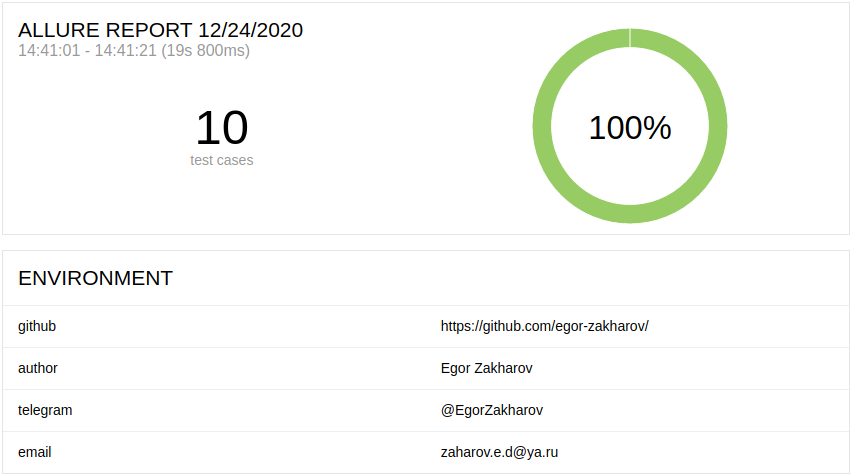
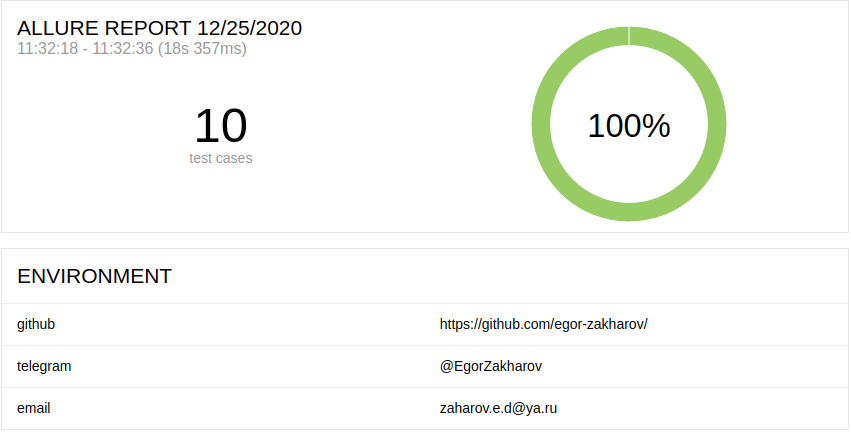
added config reader

diff --git a/src/test/java/io/swagger/petstore/testing/BaseTest.java b/src/test/java/io/swagger/petstore/testing/BaseTest.java
@@ -1,15 +1,14 @@
 package io.swagger.petstore.testing;
 
+import com.typesafe.config.Config;
+import com.typesafe.config.ConfigFactory;
 import io.restassured.RestAssured;
 import io.restassured.parsing.Parser;
 import org.junit.jupiter.api.AfterAll;
 import org.junit.jupiter.api.BeforeAll;
 
-import java.io.File;
-import java.io.FileInputStream;
 import java.io.FileOutputStream;
 import java.io.IOException;
-import java.io.InputStream;
 import java.io.OutputStream;
 import java.util.Properties;
 
@@ -17,32 +16,22 @@ public class BaseTest {
 
     @BeforeAll
     public static void setUp() {
-        try (InputStream input = new FileInputStream("./src/main/resources/settings.properties")) {
-            Properties settingsProp = new Properties();
-            settingsProp.load(input);
-            RestAssured.baseURI = (settingsProp.getProperty("base.uri"));
-            RestAssured.basePath = (settingsProp.getProperty("base.path"));
-            RestAssured.defaultParser = Parser.JSON;
-        } catch (IOException e) {
-            e.printStackTrace();
-        }
+        Config config = ConfigFactory.load();
+        RestAssured.baseURI = config.getString("base.uri");
+        RestAssured.basePath = config.getString("base.path");
+        RestAssured.defaultParser = Parser.JSON;
     }
 
     @AfterAll
     public static void tearDown() {
         Properties envProp = new Properties();
-        envProp.setProperty("author", "Egor Zakharov");
         envProp.setProperty("github", "https://github.com/egor-zakharov/");
         envProp.setProperty("email", "zaharov.e.d@ya.ru");
         envProp.setProperty("telegram", "@EgorZakharov");
-        File resultsFolder = new File("./build/allure-results");
-        if (!resultsFolder.exists()) {
-            resultsFolder.mkdirs();
-        }
         try (OutputStream out = new FileOutputStream("./build/allure-results/environment.properties")) {
             envProp.store(out, "environment.properties");
-        } catch (IOException ex) {
-            System.out.println(ex.getMessage());
+        } catch (IOException e) {
+            System.out.println(e.getMessage());
         }
     }
 }

diff --git a/README.md b/README.md
@@ -8,6 +8,7 @@ I used next frameworks:
 * [REST Assured](https://github.com/rest-assured/rest-assured)
 * [Allure](https://github.com/allure-framework/allure-java)
 * [Lombok](https://projectlombok.org/)
+* [Config](https://github.com/lightbend/config)
 
 ### Run
 For run tests use the command:
